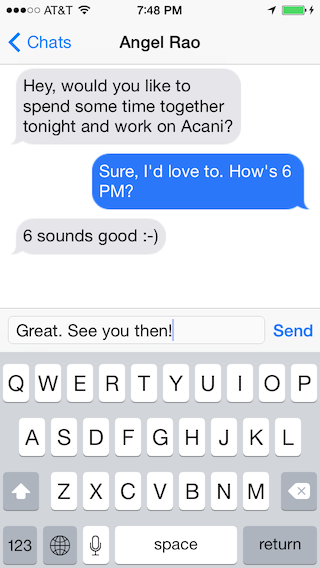
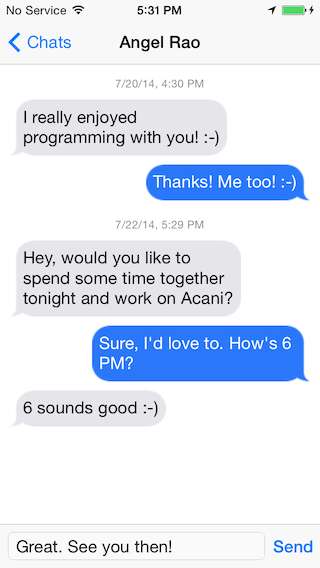
Update Chat.png screenshot with sent dates

diff --git a/Chats/Chats/ChatViewController.swift b/Chats/Chats/ChatViewController.swift
@@ -70,7 +70,7 @@ class ChatViewController: UIViewController, UITableViewDataSource, UITableViewDe
 
         chat.loadedMessages = [
             [
-                Message(incoming: true, text: "I really enjoyed programming with you! :-)", sentDate: NSDate(timeIntervalSinceNow: -60*60*24*2)),
+                Message(incoming: true, text: "I really enjoyed programming with you! :-)", sentDate: NSDate(timeIntervalSinceNow: -60*60*24*2-60*60)),
                 Message(incoming: false, text: "Thanks! Me too! :-)", sentDate: NSDate(timeIntervalSinceNow: -60*60*24*2))
             ],
             [
